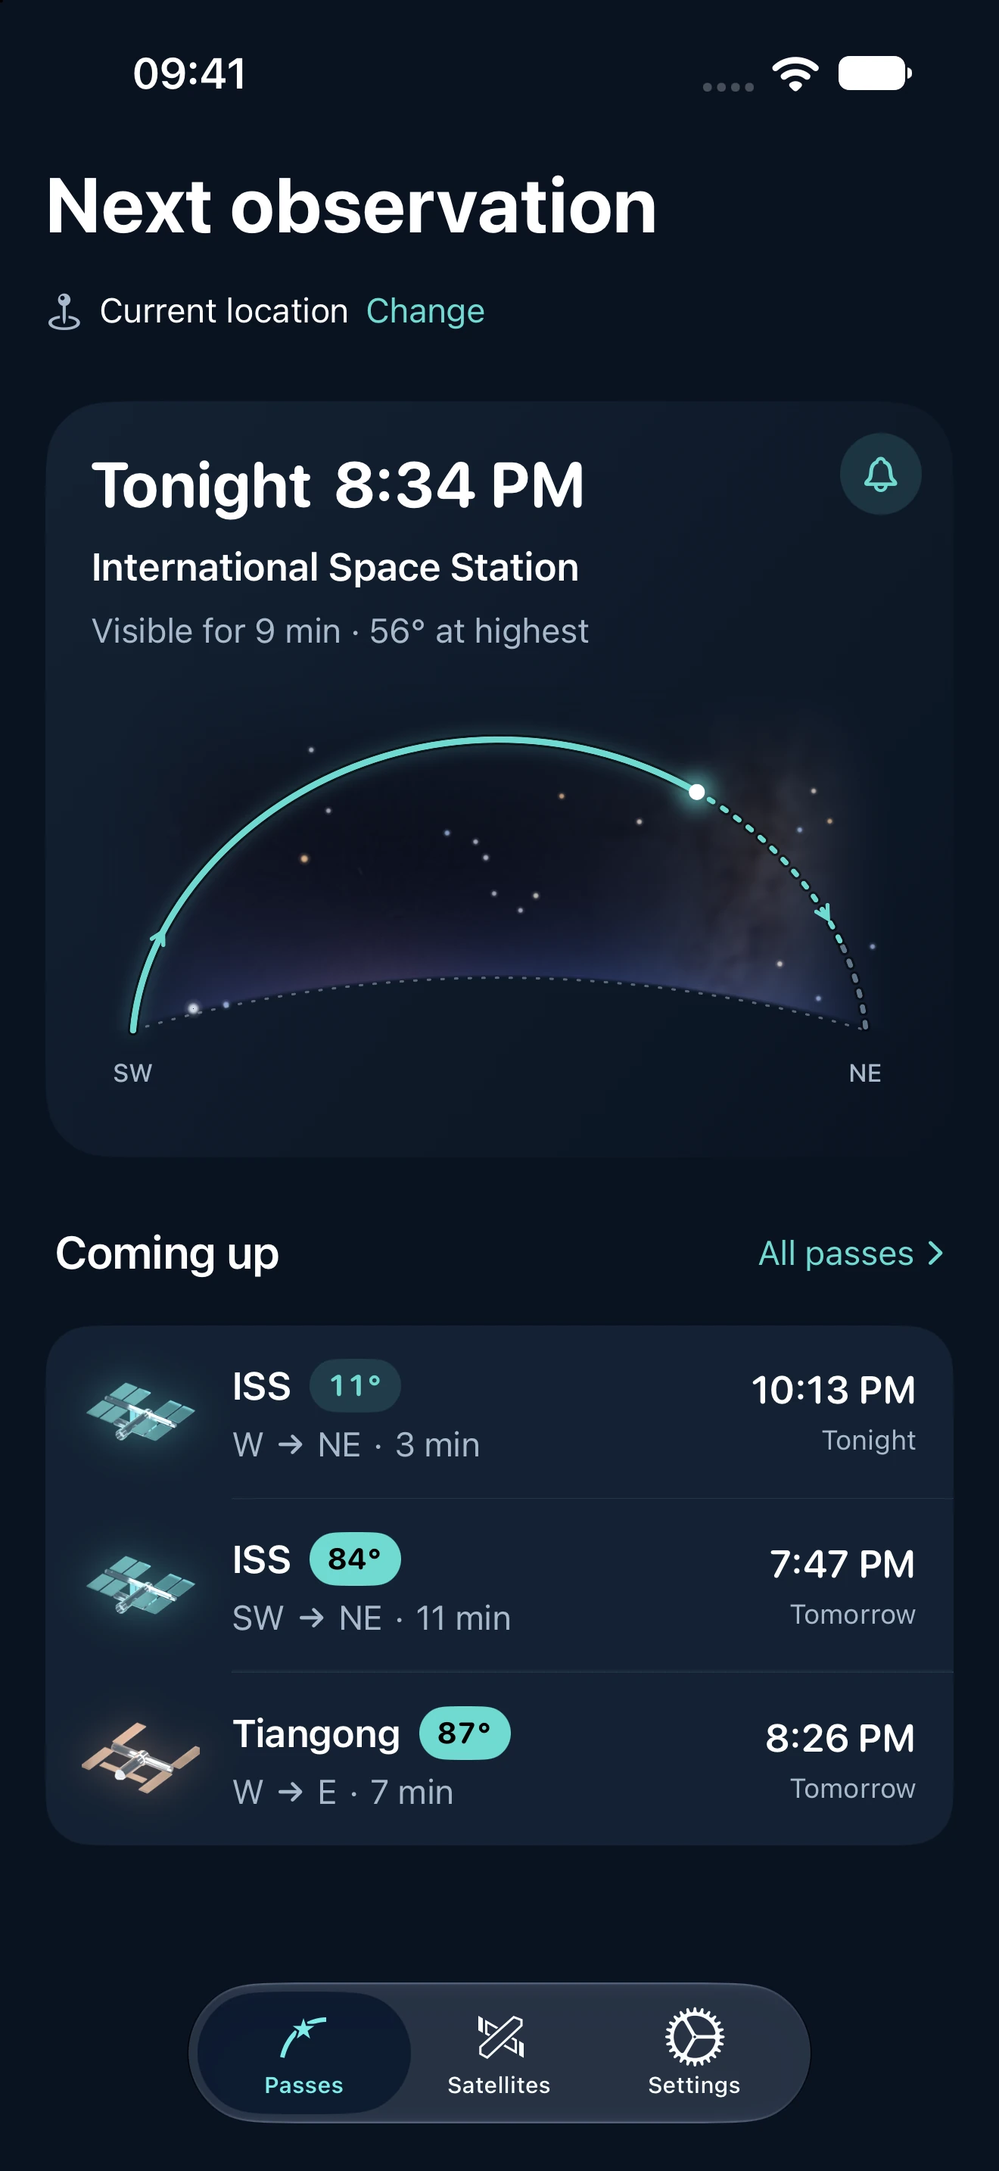
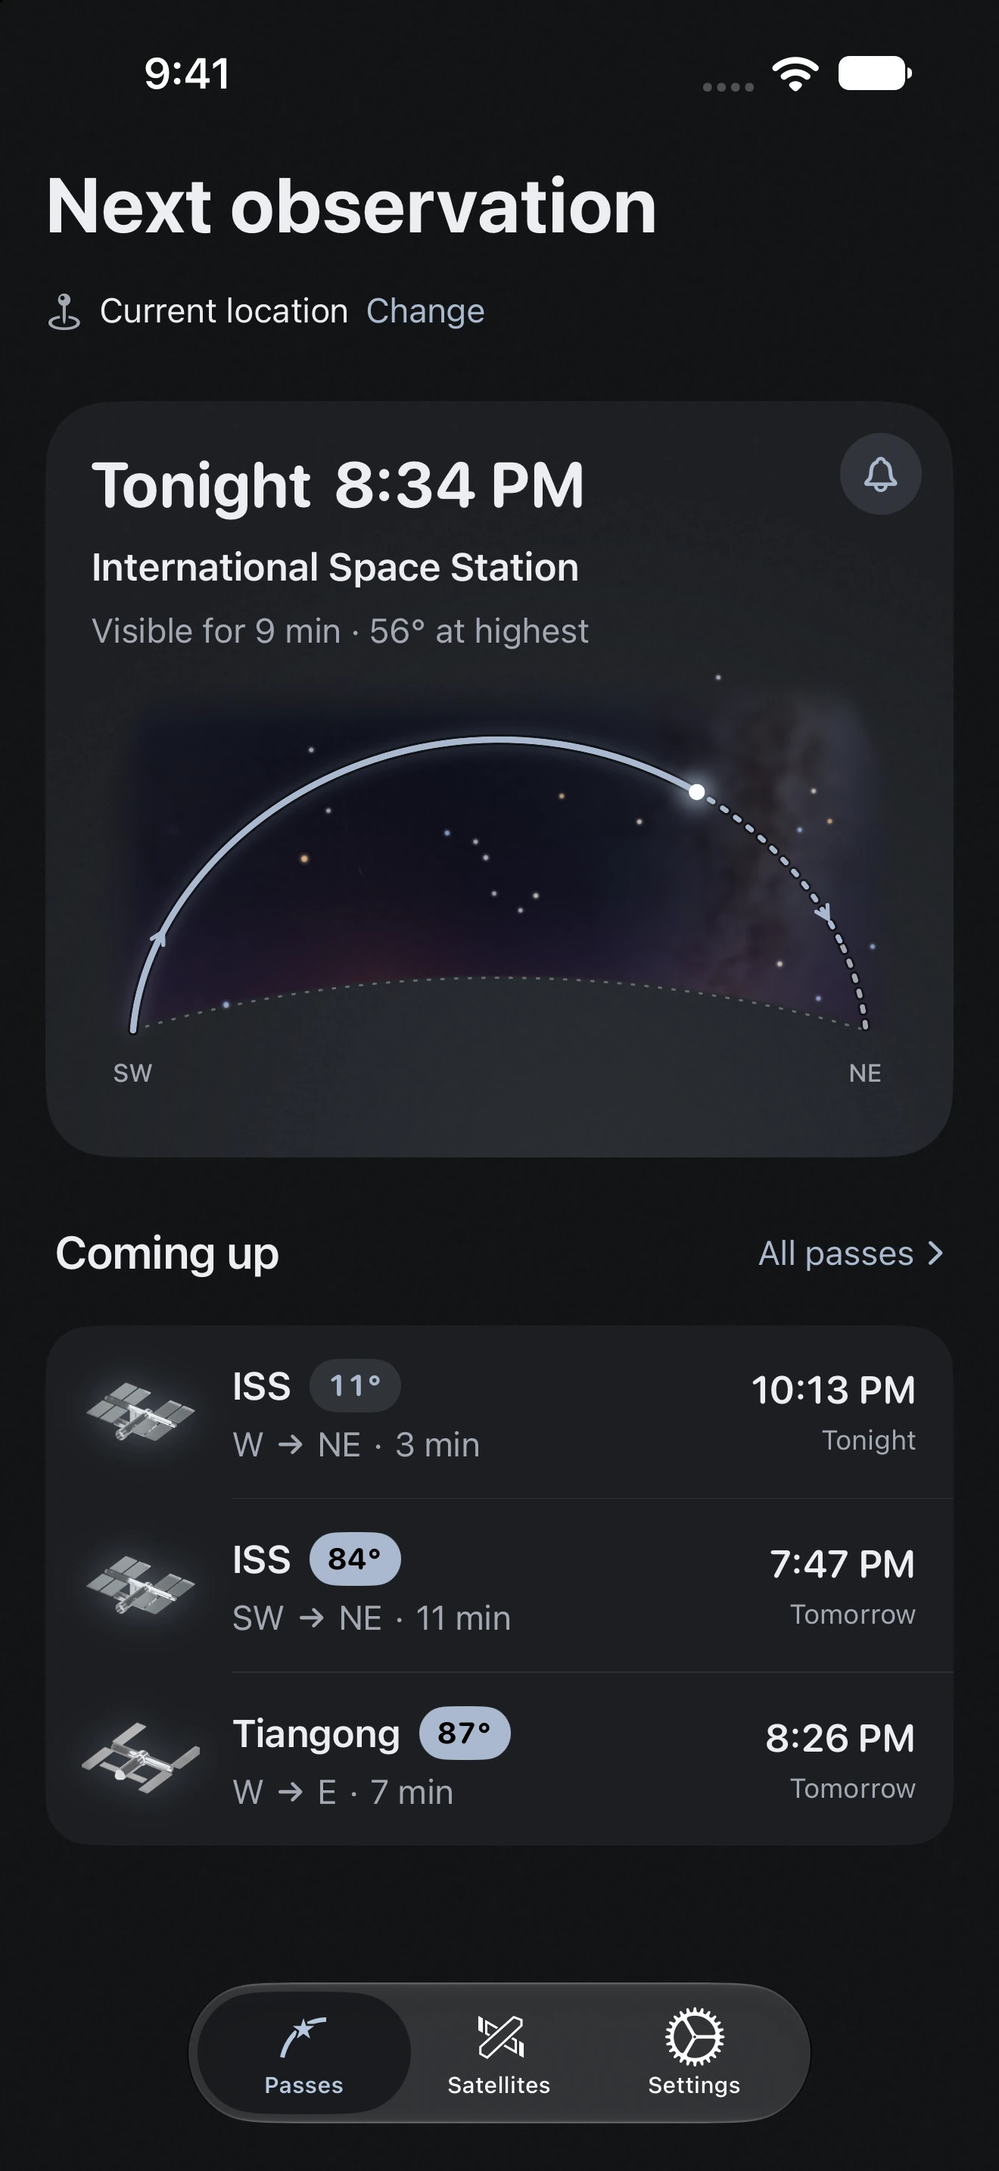
Restyle the website in the Moonstone palette with a vertical showcase
Drop the hero phone so the live next-pass card is the hero visual, keep all
four screens in the pinned-phone showcase with chips to choose a screen, and
make the narrow layout scroll vertically under a pinned phone instead of a
horizontal strip. Screenshots are fresh 3x Moonstone captures.

diff --git a/Website/public/assets/site.css b/Website/public/assets/site.css
@@ -1,17 +1,16 @@
 :root {
   color-scheme: dark;
-  --night: #0a1120;
-  --night-2: #0e1729;
-  --card: #131e31;
-  --card-2: #182540;
-  --line: #23324c;
-  --text: #eaf0f8;
-  --muted: #8fa0b8;
-  --faint: #5d6d88;
-  --accent: #6fe3d2;
-  --accent-ink: #0a1120;
-  --warm: #f0b26a;
-  --dusk: #3b2f63;
+  --night: #111214;
+  --night-2: #16181c;
+  --card: #1c1e22;
+  --card-2: #22252b;
+  --line: #33363d;
+  --text: #eceef2;
+  --muted: #a3a8b2;
+  --faint: #6b7280;
+  --accent: #a9b9ce;
+  --accent-ink: #111214;
+  --warm: #f0a184;
   --display: "Fraunces", "Iowan Old Style", Georgia, serif;
   --body: "IBM Plex Sans", "Helvetica Neue", Arial, sans-serif;
   --mono: "IBM Plex Mono", "SF Mono", Menlo, monospace;
@@ -71,18 +70,15 @@ section { padding-block: 72px; }
 section + section { border-top: 1px solid var(--line); }
 
 /* ---------- Hero ---------- */
-.hero { padding-block: 64px 80px; position: relative; overflow: hidden; }
-.hero::before { content: ""; position: absolute; left: 50%; bottom: -520px; width: 1600px; height: 700px; transform: translateX(-50%); border-radius: 50%;
-  background: radial-gradient(closest-side, color-mix(in srgb, var(--dusk) 70%, var(--night)) 0%, transparent 72%); pointer-events: none; }
-.hero .wrap { display: grid; grid-template-columns: 1.15fr 0.85fr; gap: 48px; align-items: center; position: relative; }
+.hero { padding-block: 72px 88px; }
+.hero .wrap { display: grid; grid-template-columns: 1fr 1fr; gap: 56px; align-items: center; }
 .hero h1 em { font-style: italic; font-weight: 300; color: var(--accent); }
 .hero .lede { font-size: 1.15rem; color: var(--muted); margin-top: 18px; }
 .hero .actions { display: flex; gap: 12px; margin-top: 28px; flex-wrap: wrap; align-items: center; }
-.phone { justify-self: center; width: min(320px, 100%); border-radius: 36px; border: 1px solid var(--line); box-shadow: 0 40px 80px rgba(0,0,0,.5), 0 0 0 8px var(--night-2); overflow: hidden; background: var(--night-2); }
-.phone img { display: block; width: 100%; height: auto; aspect-ratio: 1320 / 2868; }
+.phone { border-radius: 36px; border: 1px solid var(--line); box-shadow: 0 40px 80px rgba(0,0,0,.5), 0 0 0 8px var(--night-2); overflow: hidden; background: var(--night-2); }
 
 /* ---------- Peek card ---------- */
-.peek { margin-top: 40px; background: linear-gradient(180deg, var(--card-2), var(--card)); border: 1px solid var(--line); border-radius: 22px; padding: 22px 22px 16px; max-width: 560px; }
+.peek { background: radial-gradient(120% 70% at 60% 105%, color-mix(in srgb, var(--accent) 12%, var(--card)) 0%, var(--card) 70%); border: 1px solid var(--line); border-radius: 22px; padding: 22px 22px 16px; width: 100%; max-width: 560px; justify-self: end; box-shadow: 0 30px 60px rgba(0,0,0,.35); }
 .peek-head { display: flex; justify-content: space-between; align-items: center; gap: 12px; flex-wrap: wrap; }
 .peek-head .where { font-size: 0.85rem; color: var(--muted); display: flex; gap: 8px; align-items: center; flex-wrap: wrap; }
 .peek-head select { font: inherit; font-size: 0.85rem; color: var(--accent); background: transparent; border: 0; border-bottom: 1px dashed var(--faint); padding: 0 2px; cursor: pointer; max-width: 200px; }
@@ -109,18 +105,19 @@ section + section { border-top: 1px solid var(--line); }
 .chip.warm { background: color-mix(in srgb, var(--warm) 18%, transparent); color: var(--warm); }
 .peek.busy .arc, .peek.busy .row, .peek.busy .foot { opacity: .35; }
 
-/* ---------- Showcase: pinned phone, scrolling steps ---------- */
+/* ---------- Showcase: chips choose a screen; the pinned phone follows the steps ---------- */
 .showcase { padding-block: 64px 96px; }
 .show-head h2 { margin-top: 10px; }
+.chips { display: flex; gap: 6px; flex-wrap: wrap; justify-content: center; margin-top: 18px; width: 320px; max-width: 100%; }
+.chips button { font: inherit; font-size: 0.88rem; font-weight: 500; color: var(--muted); background: var(--card); border: 1px solid var(--line); border-radius: 999px; padding: 7px 14px; cursor: pointer; transition: color .25s, background .25s, border-color .25s; }
+.chips button:hover { color: var(--text); }
+.chips button.on { color: var(--accent-ink); background: var(--accent); border-color: var(--accent); }
 .show { display: grid; grid-template-columns: 340px 1fr; gap: 72px; margin-top: 36px; align-items: start; }
 .show-phone { position: sticky; top: calc(env(safe-area-inset-top, 0px) + 84px); }
-.frames { position: relative; width: 320px; aspect-ratio: 1320 / 2868; }
+.frames { position: relative; width: 320px; max-width: 100%; aspect-ratio: 1320 / 2868; }
 .frames img { position: absolute; inset: 0; width: 100%; height: 100%; object-fit: cover; opacity: 0; transform: scale(.985); transition: opacity .45s ease, transform .45s ease; }
 .frames img.on { opacity: 1; transform: none; }
-.dots { display: flex; gap: 8px; justify-content: center; margin-top: 16px; width: 320px; }
-.dots button { width: 8px; height: 8px; border-radius: 999px; border: 0; padding: 0; background: var(--line); cursor: pointer; transition: width .3s, background .3s; }
-.dots button.on { width: 26px; background: var(--accent); }
-.steps { display: grid; gap: 0; }
+.steps { display: grid; }
 .step { min-height: 62vh; display: flex; flex-direction: column; justify-content: center; padding-block: 24px; border-top: 1px solid var(--line); opacity: .38; transition: opacity .4s; cursor: pointer; }
 .step:first-child { border-top: 0; }
 .step.on { opacity: 1; }
@@ -188,30 +185,38 @@ footer a { color: var(--muted); }
 
 @media (max-width: 860px) {
   .hero .wrap, .glance, .article, .stations, .contact { grid-template-columns: 1fr; }
-  .show { grid-template-columns: 1fr; gap: 20px; }
-  .show-phone { position: static; display: grid; justify-items: center; }
-  .frames { width: min(240px, 70vw); }
-  .dots { width: auto; }
-  .steps { display: flex; gap: 14px; overflow-x: auto; scroll-snap-type: x mandatory; padding-bottom: 8px; margin-inline: -20px; padding-inline: 20px; scrollbar-width: none; }
-  .steps::-webkit-scrollbar { display: none; }
-  .step { flex: 0 0 84%; scroll-snap-align: center; min-height: 0; border: 1px solid var(--line); border-radius: 16px; padding: 18px; background: var(--card); opacity: 1; }
-  .step:first-child { border-top: 1px solid var(--line); }
-  .step .moments { max-width: 100%; }
-  .moments .v { font-size: 0.8rem; }
-  .toc { position: static; }
-  .tabs a { padding: 6px 9px; font-size: 0.85rem; }
-  nav.top .cta { display: none; }
-  .brand span { display: none; }
-  .peek { padding: 18px 16px 14px; }
+  .hero { padding-block: 44px 56px; }
+  .peek { justify-self: stretch; max-width: none; padding: 18px 16px 14px; }
   .peek .when { font-size: 1.6rem; }
   .peek .sub { font-size: 0.85rem; }
   .peek .row { grid-template-columns: 1fr; gap: 6px; }
   .peek .row div { display: flex; justify-content: space-between; gap: 10px; }
   .peek .row b { display: inline; }
+  /* Showcase: the phone pins under the nav, the chips sit on its shoulder, and the
+     steps scroll vertically beneath it. No horizontal swiping. */
+  .showcase { padding-block: 48px 64px; }
+  .show { grid-template-columns: 1fr; gap: 0; margin-top: 20px; }
+  .show-phone { position: sticky; top: calc(env(safe-area-inset-top, 0px) + 56px); z-index: 2; display: grid; justify-items: center; padding-block: 12px 18px; background: linear-gradient(180deg, var(--night) 82%, transparent); }
+  .frames { width: min(46vw, 210px); }
+  .phone { border-radius: 26px; box-shadow: 0 24px 48px rgba(0,0,0,.55), 0 0 0 5px var(--night-2); }
+  .chips { width: auto; margin-top: 12px; }
+  .chips button { padding: 6px 11px; font-size: 0.82rem; }
+  .moments { grid-template-columns: 1fr; }
+  .moments div { display: grid; grid-template-columns: 1fr auto auto; gap: 10px; align-items: baseline; }
+  .moments div + div { border-left: 0; border-top: 1px solid var(--line); }
+  .moments .v { margin-top: 0; }
+  .step { min-height: 46vh; padding-block: 28px; justify-content: flex-start; }
+  .steps { padding-bottom: 26vh; }
+  .step p { max-width: none; }
+  .moments { max-width: 100%; }
+  .moments .v { font-size: 0.8rem; }
+  .toc { position: static; }
+  .tabs a { padding: 6px 9px; font-size: 0.85rem; }
+  nav.top .cta { display: none; }
+  .brand span { display: none; }
   section { padding-block: 52px; }
-  .hero { padding-block: 40px 56px; }
 }
 @media (prefers-reduced-motion: reduce) {
   .live i { animation: none; }
-  .frames img, .step, .dots button { transition: none; }
+  .frames img, .step, .chips button { transition: none; }
 }

diff --git a/Website/public/assets/peek.js b/Website/public/assets/peek.js
@@ -194,18 +194,18 @@
     var after = s.filter(function (p) { return p.t >= ps.visEnd.t; }).map(pt).join(' ');
     var peak = ps.visPeak;
     el.arc.innerHTML =
-      '<defs><linearGradient id="g" x1="0" x2="0" y1="0" y2="1"><stop offset="0" stop-color="#3b2f63" stop-opacity=".55"/><stop offset="1" stop-color="#0a1120" stop-opacity="0"/></linearGradient></defs>' +
+      '<defs><linearGradient id="g" x1="0" x2="0" y1="0" y2="1"><stop offset="0" stop-color="#a9b9ce" stop-opacity=".18"/><stop offset="1" stop-color="#111214" stop-opacity="0"/></linearGradient></defs>' +
       '<path d="M0 ' + hy + ' Q ' + (W / 2) + ' ' + (hy - 26) + ' ' + W + ' ' + hy + ' L ' + W + ' ' + H + ' L 0 ' + H + ' Z" fill="url(#g)"/>' +
-      '<path d="M0 ' + hy + ' Q ' + (W / 2) + ' ' + (hy - 26) + ' ' + W + ' ' + hy + '" fill="none" stroke="#5d6d88" stroke-width="1" stroke-dasharray="2 4"/>' +
-      [10, 30, 60].map(function (e) { return '<line x1="40" x2="' + (W - 40) + '" y1="' + y(e) + '" y2="' + y(e) + '" stroke="#23324c" stroke-width="1"/><text x="' + (W - 36) + '" y="' + (y(e) + 4) + '" fill="#5d6d88" font-size="10" font-family="IBM Plex Mono, monospace">' + e + '°</text>'; }).join('') +
-      '<polyline points="' + before + '" fill="none" stroke="#6fe3d2" stroke-width="2" stroke-dasharray="3 6" stroke-linecap="round" opacity=".6"/>' +
-      '<polyline points="' + during + '" fill="none" stroke="#6fe3d2" stroke-width="2.5" stroke-linecap="round"/>' +
-      '<polyline points="' + after + '" fill="none" stroke="#6fe3d2" stroke-width="2" stroke-dasharray="3 6" stroke-linecap="round" opacity=".6"/>' +
-      '<circle cx="' + x(ps.visEnd.t) + '" cy="' + y(ps.visEnd.el) + '" r="5" fill="#eaf0f8"/>' +
-      '<circle cx="' + x(peak.t) + '" cy="' + y(peak.el) + '" r="3" fill="#6fe3d2"/>' +
-      '<text x="' + x(peak.t) + '" y="' + (y(peak.el) - 10) + '" fill="#6fe3d2" text-anchor="middle" font-size="11" font-family="IBM Plex Mono, monospace">' + Math.round(peak.el) + '° highest</text>' +
-      '<text x="40" y="' + (hy + 18) + '" fill="#8fa0b8" font-size="11" font-family="IBM Plex Mono, monospace">' + compass(ps.rise.az) + '</text>' +
-      '<text x="' + (W - 40) + '" y="' + (hy + 18) + '" fill="#8fa0b8" text-anchor="end" font-size="11" font-family="IBM Plex Mono, monospace">' + compass(ps.set.az) + '</text>';
+      '<path d="M0 ' + hy + ' Q ' + (W / 2) + ' ' + (hy - 26) + ' ' + W + ' ' + hy + '" fill="none" stroke="#6b7280" stroke-width="1" stroke-dasharray="2 4"/>' +
+      [10, 30, 60].map(function (e) { return '<line x1="40" x2="' + (W - 40) + '" y1="' + y(e) + '" y2="' + y(e) + '" stroke="#33363d" stroke-width="1"/><text x="' + (W - 36) + '" y="' + (y(e) + 4) + '" fill="#6b7280" font-size="10" font-family="IBM Plex Mono, monospace">' + e + '°</text>'; }).join('') +
+      '<polyline points="' + before + '" fill="none" stroke="#a9b9ce" stroke-width="2" stroke-dasharray="3 6" stroke-linecap="round" opacity=".6"/>' +
+      '<polyline points="' + during + '" fill="none" stroke="#a9b9ce" stroke-width="2.5" stroke-linecap="round"/>' +
+      '<polyline points="' + after + '" fill="none" stroke="#a9b9ce" stroke-width="2" stroke-dasharray="3 6" stroke-linecap="round" opacity=".6"/>' +
+      '<circle cx="' + x(ps.visEnd.t) + '" cy="' + y(ps.visEnd.el) + '" r="5" fill="#eceef2"/>' +
+      '<circle cx="' + x(peak.t) + '" cy="' + y(peak.el) + '" r="3" fill="#a9b9ce"/>' +
+      '<text x="' + x(peak.t) + '" y="' + (y(peak.el) - 10) + '" fill="#a9b9ce" text-anchor="middle" font-size="11" font-family="IBM Plex Mono, monospace">' + Math.round(peak.el) + '° highest</text>' +
+      '<text x="40" y="' + (hy + 18) + '" fill="#a3a8b2" font-size="11" font-family="IBM Plex Mono, monospace">' + compass(ps.rise.az) + '</text>' +
+      '<text x="' + (W - 40) + '" y="' + (hy + 18) + '" fill="#a3a8b2" text-anchor="end" font-size="11" font-family="IBM Plex Mono, monospace">' + compass(ps.set.az) + '</text>';
   }
 
   function note(msg) { el.status.textContent = msg; el.status.hidden = !msg; }

diff --git a/Website/public/index.html b/Website/public/index.html
@@ -10,13 +10,13 @@
   <meta property="og:description" content="Know when to look up, and where to look. ISS and Tiangong pass forecasts, sky charts and reminders for iPhone.">
   <meta property="og:image" content="https://space-station-passes.web.app/img/icon.png">
   <meta property="og:type" content="website">
-  <meta name="theme-color" content="#0a1120">
+  <meta name="theme-color" content="#111214">
   <link rel="icon" href="/img/icon.png">
   <link rel="apple-touch-icon" href="/img/icon.png">
   <link rel="preconnect" href="https://fonts.googleapis.com">
   <link rel="preconnect" href="https://fonts.gstatic.com" crossorigin>
   <link rel="stylesheet" href="https://fonts.googleapis.com/css2?family=Fraunces:opsz,wght@9..144,300;9..144,500;9..144,600&family=IBM+Plex+Sans:wght@400;500;600&family=IBM+Plex+Mono:wght@400;500&display=swap">
-  <link rel="stylesheet" href="/assets/site.css?v=4">
+  <link rel="stylesheet" href="/assets/site.css?v=5">
 </head>
 <body>
 <canvas id="stars" aria-hidden="true"></canvas>
@@ -53,8 +53,8 @@
             <a class="cta" href="https://apps.apple.com/app/id1578649430">Download on the App Store</a>
             <a class="cta ghost" href="/privacy">Read the privacy policy</a>
           </div>
-
-          <div class="peek" id="peek">
+        </div>
+        <div class="peek" id="peek">
             <div class="peek-head">
               <div class="where">
                 <span>Next pass over</span>
@@ -75,9 +75,7 @@
               <div class="up" id="peek-up"></div>
               <span id="peek-tz">Computed in your browser</span>
             </div>
-          </div>
         </div>
-        <div class="phone"><img src="/img/01-forecast.webp" alt="Home screen showing the next observation card with an animated sky arc and a list of upcoming ISS and Tiangong passes"></div>
       </div>
     </section>
 
@@ -95,12 +93,12 @@
               <img src="/img/05-planetarium.webp" alt="Planetarium view of the pass" data-i="2">
               <img src="/img/06-widgets.webp" alt="Home Screen widgets in three sizes" data-i="3">
             </div>
-            <div class="dots" id="dots" role="tablist" aria-label="Screens">
-              <button type="button" class="on" role="tab" aria-selected="true" aria-label="Forecast" data-i="0"></button>
-              <button type="button" role="tab" aria-selected="false" aria-label="Sky chart" data-i="1"></button>
-              <button type="button" role="tab" aria-selected="false" aria-label="Planetarium" data-i="2"></button>
-              <button type="button" role="tab" aria-selected="false" aria-label="Widgets" data-i="3"></button>
-            </div>
+            <div class="chips" id="chips" role="tablist" aria-label="Choose a screen">
+            <button type="button" class="on" role="tab" aria-selected="true" data-i="0">Forecast</button>
+            <button type="button" role="tab" aria-selected="false" data-i="1">Sky chart</button>
+            <button type="button" role="tab" aria-selected="false" data-i="2">Planetarium</button>
+            <button type="button" role="tab" aria-selected="false" data-i="3">Widgets</button>
+          </div>
           </div>
           <div class="steps" id="steps">
             <div class="step on" data-i="0">
@@ -142,8 +140,8 @@
     </div>
   </footer>
 </div>
-<script src="/assets/satellite.min.js?v=4"></script>
-<script src="/assets/site.js?v=4"></script>
-<script src="/assets/peek.js?v=4"></script>
+<script src="/assets/satellite.min.js?v=5"></script>
+<script src="/assets/site.js?v=5"></script>
+<script src="/assets/peek.js?v=5"></script>
 </body>
 </html>

diff --git a/Website/public/assets/site.js b/Website/public/assets/site.js
@@ -28,7 +28,7 @@
       for (var i = 0; i < n; i++) {
         var r = Math.random() * 1.1 + 0.2, a = Math.random() * 0.5 + 0.15, warm = Math.random() < 0.08;
         ctx.beginPath(); ctx.arc(Math.random() * innerWidth, Math.random() * innerHeight, r, 0, Math.PI * 2);
-        ctx.fillStyle = warm ? 'rgba(240,178,106,' + a + ')' : 'rgba(234,240,248,' + a + ')';
+        ctx.fillStyle = warm ? 'rgba(240,161,132,' + a + ')' : 'rgba(236,238,242,' + a + ')';
         ctx.fill();
       }
     };
@@ -36,7 +36,7 @@
   }
 
   // ---- Showcase: the step nearest the viewport middle drives the pinned phone ----
-  var frames = document.querySelectorAll('#frames img'), dots = document.querySelectorAll('#dots button'), steps = document.querySelectorAll('#steps .step');
+  var frames = document.querySelectorAll('#frames img'), dots = document.querySelectorAll('#chips button'), steps = document.querySelectorAll('#steps .step');
   if (steps.length) {
     var current = 0, lock = 0, ticking = false;
     var narrow = function () { return innerWidth <= 860; };
@@ -50,8 +50,9 @@
       if (lock > Date.now()) return;
       var best = 0, bestD = Infinity;
       steps.forEach(function (st, i) {
-        var r = st.getBoundingClientRect();
-        var d = narrow() ? Math.abs((r.left + r.right) / 2 - innerWidth / 2) : Math.abs((r.top + r.bottom) / 2 - innerHeight / 2);
+        // On narrow screens the phone pins to the top, so judge steps against the lower part of the viewport.
+        var r = st.getBoundingClientRect(), ref = narrow() ? innerHeight * 0.72 : innerHeight / 2;
+        var d = Math.abs((r.top + r.bottom) / 2 - ref);
         if (d < bestD) { bestD = d; best = i; }
       });
       setFrame(best);
@@ -63,11 +64,11 @@
     var goTo = function (i) {
       setFrame(i); lock = Date.now() + 700;
       var st = steps[i];
-      if (narrow()) st.scrollIntoView({ behavior: 'smooth', block: 'nearest', inline: 'center' });
-      else st.scrollIntoView({ behavior: 'smooth', block: 'center' });
+      var top = st.getBoundingClientRect().top + scrollY - (narrow() ? innerHeight * 0.5 : (innerHeight - st.offsetHeight) / 2);
+      window.scrollTo({ top: top, behavior: 'smooth' });
     };
     dots.forEach(function (d) { d.addEventListener('click', function () { goTo(+d.dataset.i); }); });
-    steps.forEach(function (st) { st.addEventListener('click', function () { if (!narrow()) goTo(+st.dataset.i); }); });
+    steps.forEach(function (st) { st.addEventListener('click', function () { goTo(+st.dataset.i); }); });
     nearest();
   }
 

diff --git a/Website/public/privacy/index.html b/Website/public/privacy/index.html
@@ -6,7 +6,7 @@
   <title>Privacy Policy · Space Station Passes</title>
   <meta name="description" content="What Space Station Passes collects, why, and how to delete it. Location computes passes; there is no account, no ads and no sale of data.">
   <meta name="apple-itunes-app" content="app-id=1578649430, app-argument=satelliteforecast://satellite">
-  <meta name="theme-color" content="#0a1120">
+  <meta name="theme-color" content="#111214">
   <link rel="icon" href="/img/icon.png">
   <link rel="apple-touch-icon" href="/img/icon.png">
   <link rel="preconnect" href="https://fonts.googleapis.com">

diff --git a/Website/public/support/index.html b/Website/public/support/index.html
@@ -6,7 +6,7 @@
   <title>Support · Space Station Passes</title>
   <meta name="description" content="Answers to common questions about pass forecasts and reminders in Space Station Passes, and how to contact us.">
   <meta name="apple-itunes-app" content="app-id=1578649430, app-argument=satelliteforecast://satellite">
-  <meta name="theme-color" content="#0a1120">
+  <meta name="theme-color" content="#111214">
   <link rel="icon" href="/img/icon.png">
   <link rel="apple-touch-icon" href="/img/icon.png">
   <link rel="preconnect" href="https://fonts.googleapis.com">

diff --git a/Website/public/404.html b/Website/public/404.html
@@ -4,7 +4,7 @@
   <meta charset="utf-8">
   <meta name="viewport" content="width=device-width, initial-scale=1, viewport-fit=cover">
   <title>Not found · Space Station Passes</title>
-  <meta name="theme-color" content="#0a1120">
+  <meta name="theme-color" content="#111214">
   <link rel="icon" href="/img/icon.png">
   <link rel="stylesheet" href="https://fonts.googleapis.com/css2?family=Fraunces:opsz,wght@9..144,300;9..144,500&family=IBM+Plex+Sans:wght@400;500&display=swap">
   <link rel="stylesheet" href="/assets/site.css?v=3">
